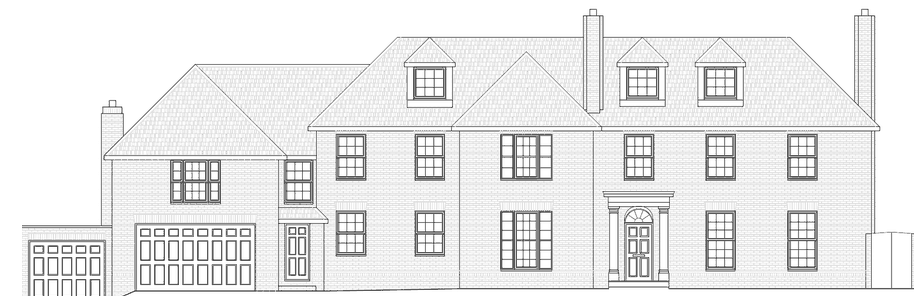
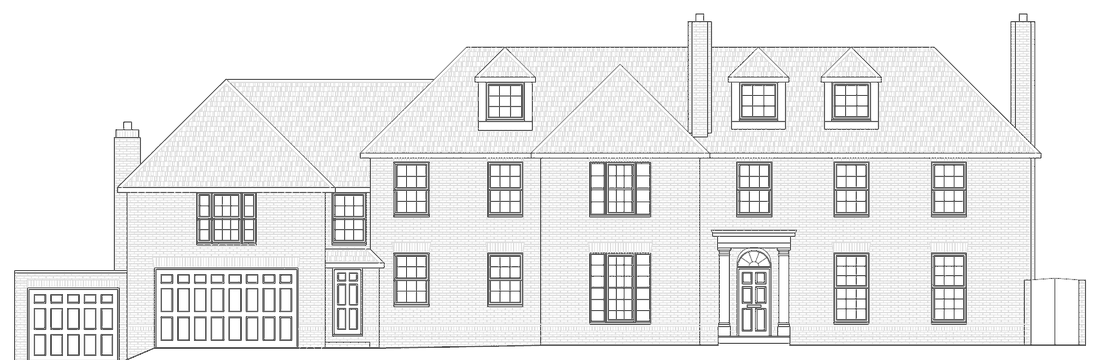
Totteridge: include existing garage on front elevation, add existing interior and garden photos
Claude-Session: https://claude.ai/code/session_01MpwyAFK5RH9F2HK69AEfyK

Changed region(s): [[0.0, 0.0304, 1.0, 1.0], [0.2448, 0.3345, 0.2754, 0.4257]]

diff --git a/project-p156.html b/project-p156.html
@@ -61,7 +61,7 @@
 <dt>Type of work</dt><dd>New homes</dd>
 </dl><a class="btn btn-navy" href="projects.html#p156">See it on the map</a><a class="btn btn-line" href="contact.html?type=New+homes">Talk to us about yours</a></aside>
 </div>
-<div class="bf"><div class="section-head ba-head"><div><span class="label">Before the work</span><h2>How the house looked before</h2><p class="muted">Photos of the finished house are to come.</p></div></div><div class="bf-grid"><figure><img src="img/projects/p156/before-front.jpg" alt="New family house in Totteridge: Front, before the work" width="1400" height="1050" loading="lazy"><figcaption>Front</figcaption></figure><figure><img src="img/projects/p156/before-front-2.jpg" alt="New family house in Totteridge: Garage wing, before the work" width="1400" height="1050" loading="lazy"><figcaption>Garage wing</figcaption></figure><figure><img src="img/projects/p156/before-entrance.jpg" alt="New family house in Totteridge: Entrance, before the work" width="1050" height="1400" loading="lazy"><figcaption>Entrance</figcaption></figure><figure><img src="img/projects/p156/before-side.jpg" alt="New family house in Totteridge: Side, before the work" width="1050" height="1400" loading="lazy"><figcaption>Side</figcaption></figure><figure><img src="img/projects/p156/before-rear.jpg" alt="New family house in Totteridge: Rear, before the work" width="1400" height="1050" loading="lazy"><figcaption>Rear</figcaption></figure><figure><img src="img/projects/p156/before-terrace.jpg" alt="New family house in Totteridge: Rear terrace, before the work" width="1400" height="1050" loading="lazy"><figcaption>Rear terrace</figcaption></figure></div></div><div class="dw" data-tabs><div class="section-head ba-head"><div><span class="label">The drawings</span><h2>Existing and approved elevations</h2><p class="muted">Drag the blue handle left and right to see what changed.</p></div><div class="ba-tabs" role="tablist" aria-label="Elevation"><button type="button" role="tab" id="dw-tab-0" aria-controls="dw-0" aria-selected="true">Front</button><button type="button" role="tab" id="dw-tab-1" aria-controls="dw-1" aria-selected="false" tabindex="-1">Side</button><button type="button" role="tab" id="dw-tab-2" aria-controls="dw-2" aria-selected="false" tabindex="-1">Rear</button><button type="button" role="tab" id="dw-tab-3" aria-controls="dw-3" aria-selected="false" tabindex="-1">Other side</button></div></div><div class="cmp-pane" role="tabpanel" id="dw-0" aria-labelledby="dw-tab-0"><div class="cmp" data-compare style="--pos:50%"><img src="img/projects/p156/elev-front-existing.png" alt="Front elevation, existing" loading="lazy"><img class="cmp-after" src="img/projects/p156/elev-front-proposed.png" alt="Front elevation, approved" loading="lazy"><span class="cmp-tag cmp-l">Existing</span><span class="cmp-tag cmp-r">Approved</span><span class="cmp-line" aria-hidden="true"></span><span class="cmp-hint" aria-hidden="true">Drag to compare</span><input type="range" min="0" max="100" value="50" aria-label="Slide between existing and approved front elevation"></div></div><div class="cmp-pane" role="tabpanel" id="dw-1" aria-labelledby="dw-tab-1" hidden><div class="cmp" data-compare style="--pos:50%"><img src="img/projects/p156/elev-side-existing.png" alt="Side elevation, existing" loading="lazy"><img class="cmp-after" src="img/projects/p156/elev-side-proposed.png" alt="Side elevation, approved" loading="lazy"><span class="cmp-tag cmp-l">Existing</span><span class="cmp-tag cmp-r">Approved</span><span class="cmp-line" aria-hidden="true"></span><span class="cmp-hint" aria-hidden="true">Drag to compare</span><input type="range" min="0" max="100" value="50" aria-label="Slide between existing and approved side elevation"></div></div><div class="cmp-pane" role="tabpanel" id="dw-2" aria-labelledby="dw-tab-2" hidden><div class="cmp" data-compare style="--pos:50%"><img src="img/projects/p156/elev-rear-existing.png" alt="Rear elevation, existing" loading="lazy"><img class="cmp-after" src="img/projects/p156/elev-rear-proposed.png" alt="Rear elevation, approved" loading="lazy"><span class="cmp-tag cmp-l">Existing</span><span class="cmp-tag cmp-r">Approved</span><span class="cmp-line" aria-hidden="true"></span><span class="cmp-hint" aria-hidden="true">Drag to compare</span><input type="range" min="0" max="100" value="50" aria-label="Slide between existing and approved rear elevation"></div></div><div class="cmp-pane" role="tabpanel" id="dw-3" aria-labelledby="dw-tab-3" hidden><div class="cmp" data-compare style="--pos:50%"><img src="img/projects/p156/elev-side-2-existing.png" alt="Other side elevation, existing" loading="lazy"><img class="cmp-after" src="img/projects/p156/elev-side-2-proposed.png" alt="Other side elevation, approved" loading="lazy"><span class="cmp-tag cmp-l">Existing</span><span class="cmp-tag cmp-r">Approved</span><span class="cmp-line" aria-hidden="true"></span><span class="cmp-hint" aria-hidden="true">Drag to compare</span><input type="range" min="0" max="100" value="50" aria-label="Slide between existing and approved other side elevation"></div></div></div><div class="cta-box case-cta"><div><span class="label">Your project</span><h2>Planning a new home?</h2><p>Tell us about your house and what you have in mind. We will tell you honestly what is likely to be approved.</p></div><div class="actions"><a class="btn btn-accent" href="tel:07843561129">Call 07843 561129</a><a class="btn btn-line" href="contact.html?type=New+homes">Send an enquiry</a></div></div>
+<div class="bf"><div class="section-head ba-head"><div><span class="label">Before the work</span><h2>How the house looked before</h2><p class="muted">Photos of the finished house are to come.</p></div></div><div class="bf-grid"><figure><img src="img/projects/p156/before-front.jpg" alt="New family house in Totteridge: Front, before the work" width="1400" height="1050" loading="lazy"><figcaption>Front</figcaption></figure><figure><img src="img/projects/p156/before-front-2.jpg" alt="New family house in Totteridge: Garage wing, before the work" width="1400" height="1050" loading="lazy"><figcaption>Garage wing</figcaption></figure><figure><img src="img/projects/p156/before-entrance.jpg" alt="New family house in Totteridge: Entrance, before the work" width="1050" height="1400" loading="lazy"><figcaption>Entrance</figcaption></figure><figure><img src="img/projects/p156/before-side.jpg" alt="New family house in Totteridge: Side, before the work" width="1050" height="1400" loading="lazy"><figcaption>Side</figcaption></figure><figure><img src="img/projects/p156/before-rear.jpg" alt="New family house in Totteridge: Rear, before the work" width="1400" height="1050" loading="lazy"><figcaption>Rear</figcaption></figure><figure><img src="img/projects/p156/before-terrace.jpg" alt="New family house in Totteridge: Rear terrace, before the work" width="1400" height="1050" loading="lazy"><figcaption>Rear terrace</figcaption></figure><figure><img src="img/projects/p156/before-conservatory-out.jpg" alt="New family house in Totteridge: Conservatory, before the work" width="1400" height="1050" loading="lazy"><figcaption>Conservatory</figcaption></figure><figure><img src="img/projects/p156/before-garden.jpg" alt="New family house in Totteridge: Garden, before the work" width="1050" height="1400" loading="lazy"><figcaption>Garden</figcaption></figure><figure><img src="img/projects/p156/before-hall.jpg" alt="New family house in Totteridge: Entrance hall, before the work" width="1050" height="1400" loading="lazy"><figcaption>Entrance hall</figcaption></figure><figure><img src="img/projects/p156/before-hallway.jpg" alt="New family house in Totteridge: Hallway, before the work" width="1050" height="1400" loading="lazy"><figcaption>Hallway</figcaption></figure><figure><img src="img/projects/p156/before-stairs.jpg" alt="New family house in Totteridge: Stairs, before the work" width="1050" height="1400" loading="lazy"><figcaption>Stairs</figcaption></figure><figure><img src="img/projects/p156/before-lounge.jpg" alt="New family house in Totteridge: Lounge, before the work" width="1050" height="1400" loading="lazy"><figcaption>Lounge</figcaption></figure><figure><img src="img/projects/p156/before-dining.jpg" alt="New family house in Totteridge: Dining room, before the work" width="1050" height="1400" loading="lazy"><figcaption>Dining room</figcaption></figure><figure><img src="img/projects/p156/before-kitchen.jpg" alt="New family house in Totteridge: Kitchen, before the work" width="1050" height="1400" loading="lazy"><figcaption>Kitchen</figcaption></figure><figure><img src="img/projects/p156/before-garden-room.jpg" alt="New family house in Totteridge: Garden room, before the work" width="1050" height="1400" loading="lazy"><figcaption>Garden room</figcaption></figure><figure><img src="img/projects/p156/before-conservatory.jpg" alt="New family house in Totteridge: Conservatory inside, before the work" width="1050" height="1400" loading="lazy"><figcaption>Conservatory inside</figcaption></figure><figure><img src="img/projects/p156/before-study.jpg" alt="New family house in Totteridge: Study, before the work" width="1050" height="1400" loading="lazy"><figcaption>Study</figcaption></figure><figure><img src="img/projects/p156/before-bedroom.jpg" alt="New family house in Totteridge: Main bedroom, before the work" width="1050" height="1400" loading="lazy"><figcaption>Main bedroom</figcaption></figure><figure><img src="img/projects/p156/before-bathroom.jpg" alt="New family house in Totteridge: En-suite, before the work" width="1050" height="1400" loading="lazy"><figcaption>En-suite</figcaption></figure><figure><img src="img/projects/p156/before-dressing.jpg" alt="New family house in Totteridge: Dressing room, before the work" width="1050" height="1400" loading="lazy"><figcaption>Dressing room</figcaption></figure><figure><img src="img/projects/p156/before-bedroom-2.jpg" alt="New family house in Totteridge: Bedroom, before the work" width="1050" height="1400" loading="lazy"><figcaption>Bedroom</figcaption></figure><figure><img src="img/projects/p156/before-bedroom-3.jpg" alt="New family house in Totteridge: Guest bedroom, before the work" width="1050" height="1400" loading="lazy"><figcaption>Guest bedroom</figcaption></figure><figure><img src="img/projects/p156/before-shower.jpg" alt="New family house in Totteridge: Shower room, before the work" width="1050" height="1400" loading="lazy"><figcaption>Shower room</figcaption></figure></div></div><div class="dw" data-tabs><div class="section-head ba-head"><div><span class="label">The drawings</span><h2>Existing and approved elevations</h2><p class="muted">Drag the blue handle left and right to see what changed.</p></div><div class="ba-tabs" role="tablist" aria-label="Elevation"><button type="button" role="tab" id="dw-tab-0" aria-controls="dw-0" aria-selected="true">Front</button><button type="button" role="tab" id="dw-tab-1" aria-controls="dw-1" aria-selected="false" tabindex="-1">Side</button><button type="button" role="tab" id="dw-tab-2" aria-controls="dw-2" aria-selected="false" tabindex="-1">Rear</button><button type="button" role="tab" id="dw-tab-3" aria-controls="dw-3" aria-selected="false" tabindex="-1">Other side</button></div></div><div class="cmp-pane" role="tabpanel" id="dw-0" aria-labelledby="dw-tab-0"><div class="cmp" data-compare style="--pos:50%"><img src="img/projects/p156/elev-front-existing.png" alt="Front elevation, existing" loading="lazy"><img class="cmp-after" src="img/projects/p156/elev-front-proposed.png" alt="Front elevation, approved" loading="lazy"><span class="cmp-tag cmp-l">Existing</span><span class="cmp-tag cmp-r">Approved</span><span class="cmp-line" aria-hidden="true"></span><span class="cmp-hint" aria-hidden="true">Drag to compare</span><input type="range" min="0" max="100" value="50" aria-label="Slide between existing and approved front elevation"></div></div><div class="cmp-pane" role="tabpanel" id="dw-1" aria-labelledby="dw-tab-1" hidden><div class="cmp" data-compare style="--pos:50%"><img src="img/projects/p156/elev-side-existing.png" alt="Side elevation, existing" loading="lazy"><img class="cmp-after" src="img/projects/p156/elev-side-proposed.png" alt="Side elevation, approved" loading="lazy"><span class="cmp-tag cmp-l">Existing</span><span class="cmp-tag cmp-r">Approved</span><span class="cmp-line" aria-hidden="true"></span><span class="cmp-hint" aria-hidden="true">Drag to compare</span><input type="range" min="0" max="100" value="50" aria-label="Slide between existing and approved side elevation"></div></div><div class="cmp-pane" role="tabpanel" id="dw-2" aria-labelledby="dw-tab-2" hidden><div class="cmp" data-compare style="--pos:50%"><img src="img/projects/p156/elev-rear-existing.png" alt="Rear elevation, existing" loading="lazy"><img class="cmp-after" src="img/projects/p156/elev-rear-proposed.png" alt="Rear elevation, approved" loading="lazy"><span class="cmp-tag cmp-l">Existing</span><span class="cmp-tag cmp-r">Approved</span><span class="cmp-line" aria-hidden="true"></span><span class="cmp-hint" aria-hidden="true">Drag to compare</span><input type="range" min="0" max="100" value="50" aria-label="Slide between existing and approved rear elevation"></div></div><div class="cmp-pane" role="tabpanel" id="dw-3" aria-labelledby="dw-tab-3" hidden><div class="cmp" data-compare style="--pos:50%"><img src="img/projects/p156/elev-side-2-existing.png" alt="Other side elevation, existing" loading="lazy"><img class="cmp-after" src="img/projects/p156/elev-side-2-proposed.png" alt="Other side elevation, approved" loading="lazy"><span class="cmp-tag cmp-l">Existing</span><span class="cmp-tag cmp-r">Approved</span><span class="cmp-line" aria-hidden="true"></span><span class="cmp-hint" aria-hidden="true">Drag to compare</span><input type="range" min="0" max="100" value="50" aria-label="Slide between existing and approved other side elevation"></div></div></div><div class="cta-box case-cta"><div><span class="label">Your project</span><h2>Planning a new home?</h2><p>Tell us about your house and what you have in mind. We will tell you honestly what is likely to be approved.</p></div><div class="actions"><a class="btn btn-accent" href="tel:07843561129">Call 07843 561129</a><a class="btn btn-line" href="contact.html?type=New+homes">Send an enquiry</a></div></div>
 <div><div class="section-head" style="margin-bottom:24px"><h2 style="font-size:1.5rem">More projects</h2><a class="more" href="projects.html">All projects and the map</a></div><div class="fp-grid"><article class="fp-card" aria-label="1 of 3: New bungalow in Pinner"><a class="fp-photo" href="project-p135.html" tabindex="-1" aria-hidden="true"><div class="ph"><span>Photo to come</span></div></a><div class="fp-body"><span class="card-type">Loft conversion · Approved 2024</span><h3><a href="project-p135.html">New bungalow in Pinner</a></h3><p>Old bungalow replaced with a new one, with rooms in the roof and a detached garage</p><a class="more" href="project-p135.html" aria-label="View project: New bungalow in Pinner">View project</a></div></article><article class="fp-card" aria-label="2 of 3: Extensions, dormers and garden room in Hadley Wood"><a class="fp-photo" href="project-p012.html" tabindex="-1" aria-hidden="true"><div class="ph"><span>Photo to come</span></div></a><div class="fp-body"><span class="card-type">Extension and loft · Approved 2024–2026</span><h3><a href="project-p012.html">Extensions, dormers and garden room in Hadley Wood</a></h3><p>Side and rear extensions, front and rear dormers, a garden outhouse and a new front boundary</p><a class="more" href="project-p012.html" aria-label="View project: Extensions, dormers and garden room in Hadley Wood">View project</a></div></article><article class="fp-card" aria-label="3 of 3: Extension and new roof in Radlett"><a class="fp-photo" href="project-p020.html" tabindex="-1" aria-hidden="true"><div class="ph"><span>Photo to come</span></div></a><div class="fp-body"><span class="card-type">Extension and loft · Approved 2025–2026</span><h3><a href="project-p020.html">Extension and new roof in Radlett</a></h3><p>Two storey side and rear extension with a new crown roof and loft rooms</p><a class="more" href="project-p020.html" aria-label="View project: Extension and new roof in Radlett">View project</a></div></article></div></div>
 </div></section>
 </main>

diff --git a/data/featured.js b/data/featured.js
@@ -13,7 +13,7 @@
 //   pairs       optional before and after photos: [{label, before, after}], shown side by side
 //   drawings    optional existing vs approved elevations, drawn to line up: {before, after, views: [{label, before, after}]}
 window.TCP_FEATURED = [
-{"id": "p156", "ref": "23/5115/FUL", "street": "Totteridge Village", "town": "Whetstone", "title": "New family house in Totteridge", "project": "Replacement two storey house with rooms in the roof and a basement, in a conservation area", "features": ["Replacement detached house", "Rooms in the roof space", "Basement", "Rear terrace", "New front landscaping", "Totteridge Conservation Area"], "description": "A replacement family house on a large plot in the Totteridge Conservation Area, an area of big detached houses set back behind mature trees. Earlier schemes for the site had been refused, so the design had to respect the character of the lane and the trees around it.\n\nThe approved scheme replaces the existing house with a two storey detached house with rooms in the roof space, a rear terrace and new hard and soft landscaping at the front. A second permission added a basement. The applications were supported by a heritage statement, ecological and bat surveys, an archaeological report and an arboricultural assessment.\n\nAfter approval we worked through the final layouts with the client and coordinated the structural design, drainage and overheating assessment for the build.", "photos": [], "before": [{"src": "img/projects/p156/before-front.jpg", "caption": "Front"}, {"src": "img/projects/p156/before-front-2.jpg", "caption": "Garage wing"}, {"src": "img/projects/p156/before-entrance.jpg", "caption": "Entrance"}, {"src": "img/projects/p156/before-side.jpg", "caption": "Side"}, {"src": "img/projects/p156/before-rear.jpg", "caption": "Rear"}, {"src": "img/projects/p156/before-terrace.jpg", "caption": "Rear terrace"}], "drawings": {"before": "Existing", "after": "Approved", "views": [{"label": "Front", "before": "img/projects/p156/elev-front-existing.png", "after": "img/projects/p156/elev-front-proposed.png"}, {"label": "Side", "before": "img/projects/p156/elev-side-existing.png", "after": "img/projects/p156/elev-side-proposed.png"}, {"label": "Rear", "before": "img/projects/p156/elev-rear-existing.png", "after": "img/projects/p156/elev-rear-proposed.png"}, {"label": "Other side", "before": "img/projects/p156/elev-side-2-existing.png", "after": "img/projects/p156/elev-side-2-proposed.png"}]}},
+{"id": "p156", "ref": "23/5115/FUL", "street": "Totteridge Village", "town": "Whetstone", "title": "New family house in Totteridge", "project": "Replacement two storey house with rooms in the roof and a basement, in a conservation area", "features": ["Replacement detached house", "Rooms in the roof space", "Basement", "Rear terrace", "New front landscaping", "Totteridge Conservation Area"], "description": "A replacement family house on a large plot in the Totteridge Conservation Area, an area of big detached houses set back behind mature trees. Earlier schemes for the site had been refused, so the design had to respect the character of the lane and the trees around it.\n\nThe approved scheme replaces the existing house with a two storey detached house with rooms in the roof space, a rear terrace and new hard and soft landscaping at the front. A second permission added a basement. The applications were supported by a heritage statement, ecological and bat surveys, an archaeological report and an arboricultural assessment.\n\nAfter approval we worked through the final layouts with the client and coordinated the structural design, drainage and overheating assessment for the build.", "photos": [], "before": [{"src": "img/projects/p156/before-front.jpg", "caption": "Front"}, {"src": "img/projects/p156/before-front-2.jpg", "caption": "Garage wing"}, {"src": "img/projects/p156/before-entrance.jpg", "caption": "Entrance"}, {"src": "img/projects/p156/before-side.jpg", "caption": "Side"}, {"src": "img/projects/p156/before-rear.jpg", "caption": "Rear"}, {"src": "img/projects/p156/before-terrace.jpg", "caption": "Rear terrace"}, {"src": "img/projects/p156/before-conservatory-out.jpg", "caption": "Conservatory"}, {"src": "img/projects/p156/before-garden.jpg", "caption": "Garden"}, {"src": "img/projects/p156/before-hall.jpg", "caption": "Entrance hall"}, {"src": "img/projects/p156/before-hallway.jpg", "caption": "Hallway"}, {"src": "img/projects/p156/before-stairs.jpg", "caption": "Stairs"}, {"src": "img/projects/p156/before-lounge.jpg", "caption": "Lounge"}, {"src": "img/projects/p156/before-dining.jpg", "caption": "Dining room"}, {"src": "img/projects/p156/before-kitchen.jpg", "caption": "Kitchen"}, {"src": "img/projects/p156/before-garden-room.jpg", "caption": "Garden room"}, {"src": "img/projects/p156/before-conservatory.jpg", "caption": "Conservatory inside"}, {"src": "img/projects/p156/before-study.jpg", "caption": "Study"}, {"src": "img/projects/p156/before-bedroom.jpg", "caption": "Main bedroom"}, {"src": "img/projects/p156/before-bathroom.jpg", "caption": "En-suite"}, {"src": "img/projects/p156/before-dressing.jpg", "caption": "Dressing room"}, {"src": "img/projects/p156/before-bedroom-2.jpg", "caption": "Bedroom"}, {"src": "img/projects/p156/before-bedroom-3.jpg", "caption": "Guest bedroom"}, {"src": "img/projects/p156/before-shower.jpg", "caption": "Shower room"}], "drawings": {"before": "Existing", "after": "Approved", "views": [{"label": "Front", "before": "img/projects/p156/elev-front-existing.png", "after": "img/projects/p156/elev-front-proposed.png"}, {"label": "Side", "before": "img/projects/p156/elev-side-existing.png", "after": "img/projects/p156/elev-side-proposed.png"}, {"label": "Rear", "before": "img/projects/p156/elev-rear-existing.png", "after": "img/projects/p156/elev-rear-proposed.png"}, {"label": "Other side", "before": "img/projects/p156/elev-side-2-existing.png", "after": "img/projects/p156/elev-side-2-proposed.png"}]}},
 {"id": "p135", "ref": "P/1633/23", "street": "Moss Lane", "town": "Pinner", "title": "New bungalow in Pinner", "project": "Old bungalow replaced with a new one, with rooms in the roof and a detached garage", "features": ["Replacement bungalow", "Rooms in the roof space", "Detached garage", "Landscaping", "Bin and cycle stores"], "description": "The existing bungalow was demolished and replaced with a new bungalow with habitable rooms in the roof space, a detached garage, landscaping and bin and cycle stores. Harrow Council granted planning permission in 2024.\n\nWe then took the project through the planning conditions, including materials, site levels, drainage, landscaping and the fire safety statement, and a minor amendment to the shape and colour of the front windows.", "photos": []},
 {"id": "p012", "ref": "24/04073/HOU", "street": "Beech Hill", "town": "Hadley Wood", "title": "Extensions, dormers and garden room in Hadley Wood", "project": "Side and rear extensions, front and rear dormers, a garden outhouse and a new front boundary", "features": ["Single storey side extension", "Part single, part two storey rear extension", "Front dormer and two rear dormers", "Rooflights", "Garden outhouse", "Front wall, railings and gates"], "description": "A full remodel of a detached house in Hadley Wood. Enfield Council granted permission for a single storey side extension, a part single, part two storey rear extension, a front dormer and two rear dormers with rooflights. A garden outhouse followed under permitted development, confirmed with a lawful development certificate.\n\nThe new front wall, railings and gates took persistence. The first application was refused on height and the second because of a protected tree. We redesigned the scheme to stay clear of the tree's root protection area, and the third application was approved.", "photos": [], "before": [{"src": "img/projects/p012/before-front.jpg", "caption": "Front"}, {"src": "img/projects/p012/before-entrance.jpg", "caption": "Front door"}, {"src": "img/projects/p012/before-conservatory.jpg", "caption": "Side conservatory"}, {"src": "img/projects/p012/before-rear.jpg", "caption": "Rear"}, {"src": "img/projects/p012/before-rear-2.jpg", "caption": "Rear terrace"}, {"src": "img/projects/p012/before-living.jpg", "caption": "Living room"}, {"src": "img/projects/p012/before-dining.jpg", "caption": "Dining room"}, {"src": "img/projects/p012/before-kitchen.jpg", "caption": "Kitchen"}, {"src": "img/projects/p012/before-landing.jpg", "caption": "Stairs and landing"}, {"src": "img/projects/p012/before-bedroom.jpg", "caption": "Bedroom"}, {"src": "img/projects/p012/before-en-suite.jpg", "caption": "En-suite"}, {"src": "img/projects/p012/before-bathroom.jpg", "caption": "Bathroom"}], "drawings": {"before": "Existing", "after": "Approved", "views": [{"label": "Front", "before": "img/projects/p012/elev-front-existing.png", "after": "img/projects/p012/elev-front-proposed.png"}, {"label": "Side", "before": "img/projects/p012/elev-side-existing.png", "after": "img/projects/p012/elev-side-proposed.png"}, {"label": "Rear", "before": "img/projects/p012/elev-rear-existing.png", "after": "img/projects/p012/elev-rear-proposed.png"}, {"label": "Other side", "before": "img/projects/p012/elev-side-2-existing.png", "after": "img/projects/p012/elev-side-2-proposed.png"}]}},
 {"id": "p020", "ref": "25/0997/HSE", "street": "Newlands Avenue", "town": "Radlett", "title": "Extension and new roof in Radlett", "project": "Two storey side and rear extension with a new crown roof and loft rooms", "features": ["Part single, part two storey side and rear extension", "Front porch", "Raised ridge with a crown roof", "Two rear dormers with Juliet balconies", "Rooflights", "First floor rear balcony"], "description": "A large family extension in Radlett. We started with pre-application advice from Hertsmere, then applied for a part single, part two storey side and rear extension and a front porch.\n\nThe roof was rebuilt with a raised ridge and crown roof to create rooms in the loft, with two rear dormers with Juliet balconies and rooflights to the front, rear and sides. The scheme also includes a first floor rear balcony and new front landscaping. The application was supported by an arboricultural impact assessment, and Hertsmere approved it in November 2025.", "photos": []},
